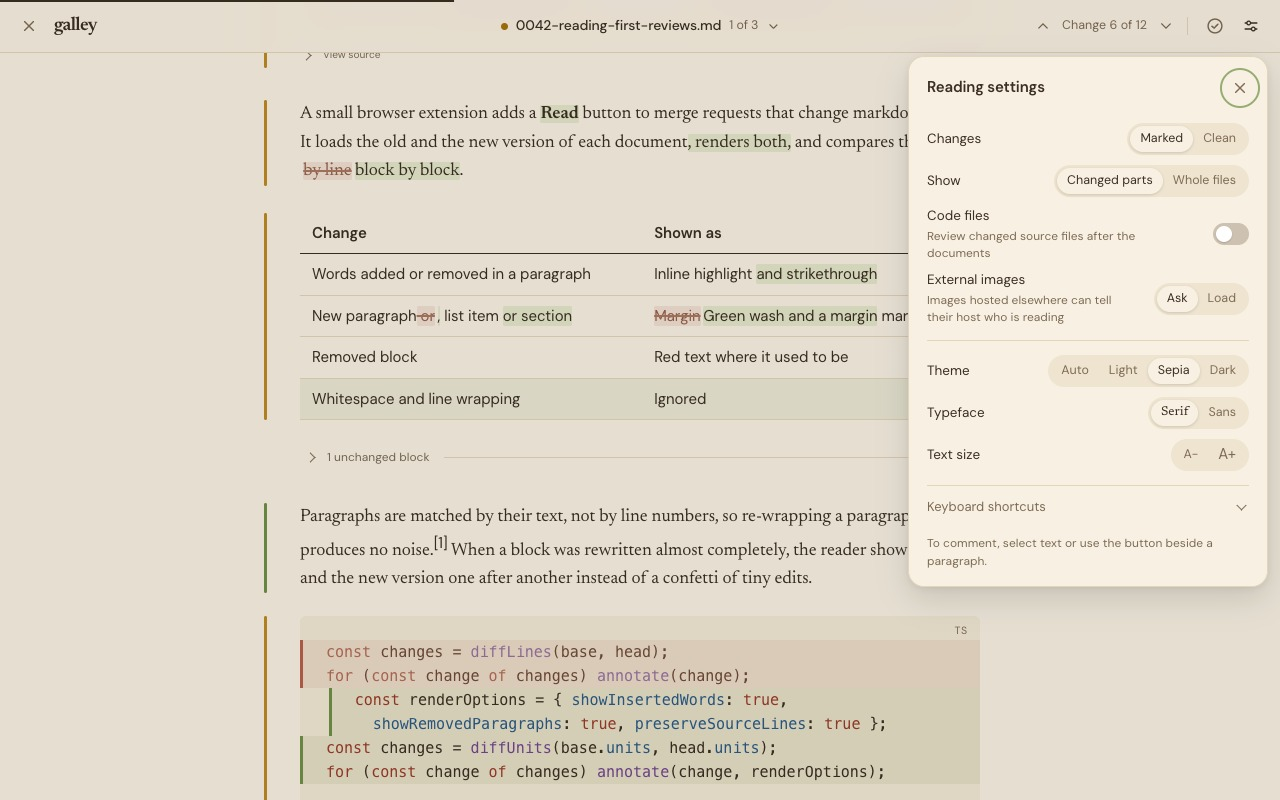
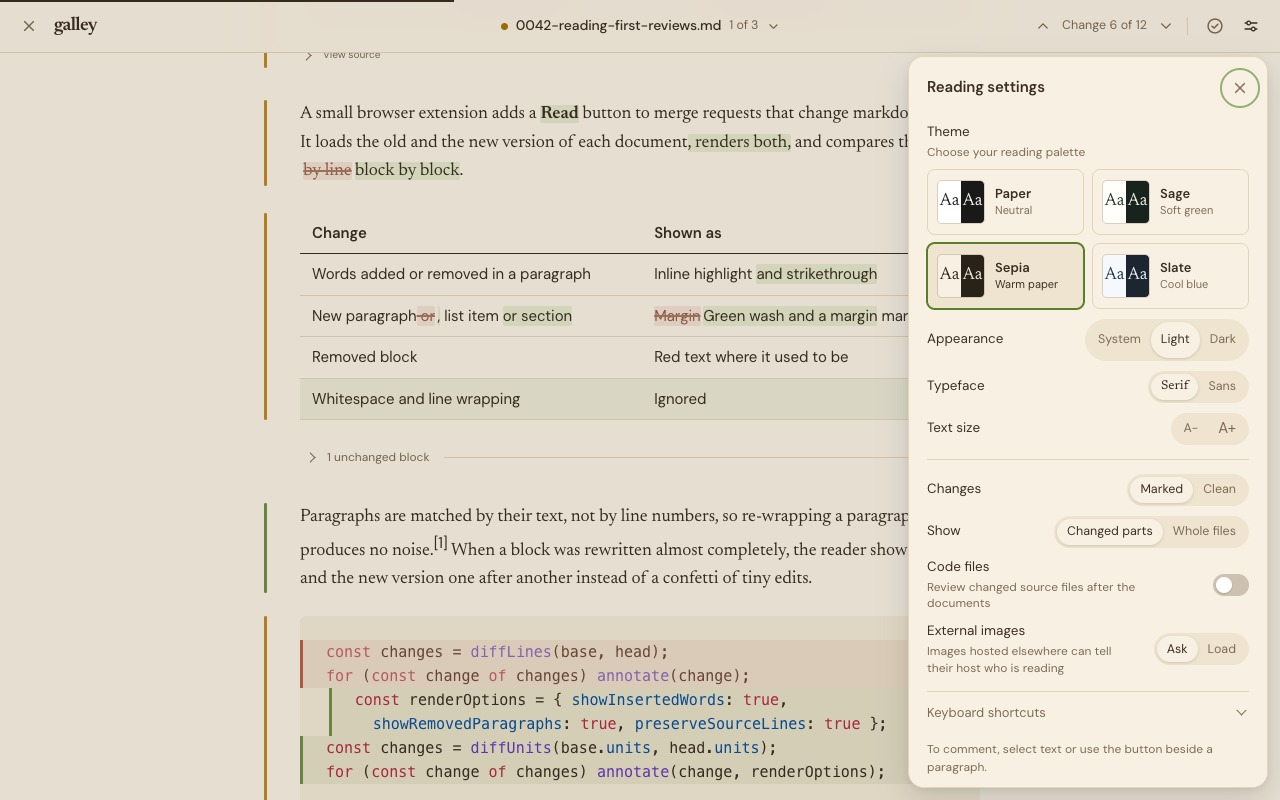
Separate reading palettes from light and dark appearance

diff --git a/src/ui/reader.ts b/src/ui/reader.ts
@@ -39,16 +39,24 @@ const TEMPLATE = `
     <div class="mr-settings-backdrop" data-act="close-settings"></div>
     <aside class="mr-settings-panel" role="dialog" aria-modal="true" aria-labelledby="mr-settings-title" tabindex="-1">
       <header class="mr-settings-heading"><h2 id="mr-settings-title">Reading settings</h2><button class="mr-btn mr-icon-btn" data-act="close-settings" aria-label="Close settings (Esc)" title="Close settings (Esc)">${icons.close}</button></header>
+      <section class="mr-settings-section" aria-label="Appearance">
+        <div class="mr-set-row mr-theme-row"><span>Theme<small>Choose your reading palette</small></span>
+          <div class="mr-theme-options" data-setting="theme" role="group" aria-label="Theme">
+            <button data-value="paper"><span class="mr-theme-preview" aria-hidden="true"><span>Aa</span><span>Aa</span></span><span class="mr-theme-name">Paper</span><span class="mr-theme-caption">Neutral</span></button>
+            <button data-value="sage"><span class="mr-theme-preview" aria-hidden="true"><span>Aa</span><span>Aa</span></span><span class="mr-theme-name">Sage</span><span class="mr-theme-caption">Soft green</span></button>
+            <button data-value="sepia"><span class="mr-theme-preview" aria-hidden="true"><span>Aa</span><span>Aa</span></span><span class="mr-theme-name">Sepia</span><span class="mr-theme-caption">Warm paper</span></button>
+            <button data-value="slate"><span class="mr-theme-preview" aria-hidden="true"><span>Aa</span><span>Aa</span></span><span class="mr-theme-name">Slate</span><span class="mr-theme-caption">Cool blue</span></button>
+          </div>
+        </div>
+        <div class="mr-set-row"><span>Appearance</span><div class="mr-seg mr-appearance" data-setting="appearance" role="group" aria-label="Appearance"><button data-value="auto">System</button><button data-value="light">Light</button><button data-value="dark">Dark</button></div></div>
+        <div class="mr-set-row"><span>Typeface</span><div class="mr-seg" data-setting="font" role="group" aria-label="Typeface"><button data-value="serif" class="mr-serif-sample">Serif</button><button data-value="sans">Sans</button></div></div>
+        <div class="mr-set-row"><span>Text size</span><div class="mr-seg"><button data-act="smaller" aria-label="Smaller text">A−</button><button data-act="larger" aria-label="Larger text" class="mr-larger-sample">A+</button></div></div>
+      </section>
       <section class="mr-settings-section" aria-label="Review">
         <div class="mr-set-row"><span>Changes</span><div class="mr-seg" role="group" aria-label="Show changes"><button data-mode="changes" aria-pressed="true">Marked</button><button data-mode="clean" aria-pressed="false">Clean</button></div></div>
         <div class="mr-set-row"><span>Show</span><div class="mr-seg" role="group" aria-label="Paragraph filter"><button data-scope="changed" aria-pressed="true">Changed parts</button><button data-scope="all" aria-pressed="false">Whole files</button></div></div>
         <div class="mr-set-row"><span id="mr-code-label">Code files<small>Review changed source files after the documents</small></span><button class="mr-switch mr-code-toggle" data-act="code-files" role="switch" aria-checked="false" aria-labelledby="mr-code-label"></button></div>
         <div class="mr-set-row"><span>External images<small>Images hosted elsewhere can tell their host who is reading</small></span><div class="mr-seg" data-setting="images" role="group" aria-label="External images"><button data-value="ask">Ask</button><button data-value="load">Load</button></div></div>
-      </section>
-      <section class="mr-settings-section" aria-label="Appearance">
-        <div class="mr-set-row"><span>Theme</span><div class="mr-seg" data-setting="theme" role="group" aria-label="Theme"><button data-value="auto">Auto</button><button data-value="light">Light</button><button data-value="sepia">Sepia</button><button data-value="dark">Dark</button></div></div>
-        <div class="mr-set-row"><span>Typeface</span><div class="mr-seg" data-setting="font" role="group" aria-label="Typeface"><button data-value="serif" class="mr-serif-sample">Serif</button><button data-value="sans">Sans</button></div></div>
-        <div class="mr-set-row"><span>Text size</span><div class="mr-seg"><button data-act="smaller" aria-label="Smaller text">A−</button><button data-act="larger" aria-label="Larger text" class="mr-larger-sample">A+</button></div></div>
       </section>
       <details class="mr-settings-section mr-keys-section"><summary>Keyboard shortcuts</summary><dl class="mr-keys">
         <dt><kbd>J</kbd> <kbd>K</kbd></dt><dd>Next / previous change</dd>
@@ -763,12 +771,12 @@ class Reader {
     r.classList.toggle('mode-changes', s.mode === 'changes');
     r.classList.toggle('mode-clean', s.mode === 'clean');
     r.classList.toggle('font-sans', s.font === 'sans');
-    r.classList.toggle('is-sepia', s.theme === 'sepia');
-    r.classList.toggle('is-dark', s.theme === 'dark' || (s.theme === 'auto' && this.dark.matches));
+    r.dataset.theme = s.theme;
+    r.classList.toggle('is-dark', s.appearance === 'dark' || (s.appearance === 'auto' && this.dark.matches));
     r.style.setProperty('--body-size', `${TEXT_SIZES[s.size] ?? 20}px`);
     for (const b of this.shadow.querySelectorAll<HTMLElement>('[data-mode]')) b.setAttribute('aria-pressed', String(b.dataset.mode === s.mode));
     for (const group of this.shadow.querySelectorAll<HTMLElement>('[data-setting]')) {
-      const value = s[group.dataset.setting as 'theme' | 'font' | 'images'];
+      const value = s[group.dataset.setting as 'theme' | 'appearance' | 'font' | 'images'];
       for (const b of group.querySelectorAll<HTMLElement>('[data-value]')) b.setAttribute('aria-pressed', String(b.dataset.value === value));
     }
     for (const view of this.views) if (view.rendered) renderDiagrams(view.rendered.diagrams, r.classList.contains('is-dark'), () => this.schedule(true));
@@ -939,7 +947,7 @@ class Reader {
     }
     const setting = target.closest<HTMLElement>('[data-setting] [data-value]');
     if (setting) {
-      const key = setting.parentElement!.dataset.setting as 'theme' | 'font' | 'images';
+      const key = setting.parentElement!.dataset.setting as 'theme' | 'appearance' | 'font' | 'images';
       this.update({ [key]: setting.dataset.value } as Partial<Settings>);
       return;
     }

diff --git a/src/ui/reader.css b/src/ui/reader.css
@@ -60,7 +60,26 @@
   --body-font: var(--sans);
 }
 
-.mr-root.is-sepia {
+.mr-root[data-theme="paper"] {
+  --bg: #ffffff;
+  --fg: #292929;
+  --muted: #686863;
+  --soft: #f3f3ef;
+  --rule: #deded8;
+  --code-bg: #f6f6f3;
+}
+
+.mr-root[data-theme="slate"] {
+  --bg: #f5f8fc;
+  --fg: #293e53;
+  --muted: #5f7181;
+  --soft: #eaf0f7;
+  --rule: #d3dfe9;
+  --code-bg: #edf2f8;
+  --accent: #466b96;
+}
+
+.mr-root[data-theme="sepia"] {
   --bg: #f8f1e3;
   --fg: #3b2f22;
   --muted: #7d6b55;
@@ -108,6 +127,35 @@
   --code-del: rgba(255, 123, 114, 0.1);
   --shadow: 0 12px 32px rgba(0, 0, 0, 0.55);
   color-scheme: dark;
+}
+
+.mr-root.is-dark[data-theme="paper"] {
+  --bg: #191919;
+  --fg: #ecece8;
+  --muted: #b0b0a9;
+  --soft: #252525;
+  --rule: #383838;
+  --code-bg: #202020;
+}
+
+.mr-root.is-dark[data-theme="sepia"] {
+  --bg: #282219;
+  --fg: #efe4d0;
+  --muted: #bdb09a;
+  --soft: #332c20;
+  --rule: #4b402e;
+  --code-bg: #30281d;
+  --accent: #c4c58b;
+}
+
+.mr-root.is-dark[data-theme="slate"] {
+  --bg: #1c2530;
+  --fg: #e3eaf2;
+  --muted: #afbccd;
+  --soft: #273445;
+  --rule: #3e5062;
+  --code-bg: #222e3c;
+  --accent: #adc5e6;
 }
 
 .mr-root ::selection {
@@ -1542,6 +1590,110 @@
 
 .mr-settings .mr-seg .mr-larger-sample {
   font-size: 15px;
+}
+
+.mr-theme-row > span {
+  flex-basis: 100%;
+}
+
+.mr-theme-options {
+  display: grid;
+  grid-template-columns: repeat(2, minmax(0, 1fr));
+  gap: 8px;
+  width: 100%;
+}
+
+.mr-theme-options button {
+  --preview-light: #fffefa;
+  --preview-ink: #243e32;
+  --preview-dark: #19231e;
+  --preview-dark-ink: #e6ebdd;
+  display: grid;
+  grid-template-columns: 48px minmax(0, 1fr);
+  align-items: center;
+  column-gap: 10px;
+  min-height: 66px;
+  padding: 9px;
+  border: 1px solid var(--rule);
+  border-radius: 8px;
+  background: var(--bg);
+  color: var(--fg);
+  font: inherit;
+  text-align: left;
+  cursor: pointer;
+}
+
+.mr-theme-options button:hover {
+  background: var(--soft);
+}
+
+.mr-theme-options button[aria-pressed="true"] {
+  border-color: var(--accent);
+  box-shadow: 0 0 0 1px var(--accent);
+  background: var(--soft);
+}
+
+.mr-theme-options [data-value="paper"] {
+  --preview-light: #ffffff;
+  --preview-ink: #292929;
+  --preview-dark: #191919;
+  --preview-dark-ink: #ecece8;
+}
+
+.mr-theme-options [data-value="sepia"] {
+  --preview-light: #f8f1e3;
+  --preview-ink: #3b2f22;
+  --preview-dark: #282219;
+  --preview-dark-ink: #efe4d0;
+}
+
+.mr-theme-options [data-value="slate"] {
+  --preview-light: #f5f8fc;
+  --preview-ink: #293e53;
+  --preview-dark: #1c2530;
+  --preview-dark-ink: #e3eaf2;
+}
+
+.mr-theme-preview {
+  display: grid;
+  grid-template-columns: repeat(2, 1fr);
+  grid-row: span 2;
+  height: 42px;
+  overflow: hidden;
+  border: 1px solid color-mix(in srgb, var(--muted) 25%, transparent);
+  border-radius: 5px;
+  font: 400 17px/42px var(--serif);
+  text-align: center;
+}
+
+.mr-theme-preview span:first-child {
+  background: var(--preview-light);
+  color: var(--preview-ink);
+}
+
+.mr-theme-preview span:last-child {
+  background: var(--preview-dark);
+  color: var(--preview-dark-ink);
+}
+
+.mr-theme-name {
+  align-self: end;
+  font-size: 13px;
+  font-weight: 600;
+}
+
+.mr-theme-caption {
+  align-self: start;
+  color: var(--muted);
+  font-size: 11px;
+}
+
+.mr-theme-options button:is(:hover, [aria-pressed="true"]) .mr-theme-caption {
+  color: var(--fg);
+}
+
+.mr-settings .mr-appearance button {
+  height: 36px;
 }
 
 .mr-switch {

diff --git a/src/ui/reader.test.ts b/src/ui/reader.test.ts
@@ -147,6 +147,25 @@ it('traps focus in settings, persists appearance, and uses Escape to close the d
   expect(document.querySelector('#galley-reader')).toBeNull();
 });
 
+it('changes palettes without changing brightness and remembers both after reopening', async () => {
+  await ui.open(review());
+  ui.click('[data-act="settings"]');
+  ui.click('[data-value="dark"]');
+  ui.click('[data-value="paper"]');
+  expect(ui.q('.mr-root').dataset.theme).toBe('paper');
+  expect(ui.q('.mr-root').classList).toContain('is-dark');
+  ui.click('[data-value="light"]');
+  expect(ui.q('.mr-root').dataset.theme).toBe('paper');
+  expect(ui.q('.mr-root').classList).not.toContain('is-dark');
+  ui.click('[data-value="slate"]');
+  ui.close();
+  await ui.open(review());
+  expect(ui.q('.mr-root').dataset.theme).toBe('slate');
+  expect(ui.q('.mr-root').classList).not.toContain('is-dark');
+  expect(ui.q('[data-value="slate"]').getAttribute('aria-pressed')).toBe('true');
+  expect(ui.q('[data-value="light"]').getAttribute('aria-pressed')).toBe('true');
+});
+
 it('shields page shortcuts while respecting text input and modifier keys', async () => {
   const pageKey = vi.fn(); window.addEventListener('keydown', pageKey);
   try {
@@ -394,11 +413,12 @@ it('reflects renamed and unchanged documents and warns about edits that Markdown
 
 it('restores automatic colour scheme behavior and responds to system theme changes', async () => {
   await ui.open(review());
-  ui.click('[data-value="sepia"]'); expect(ui.q('.mr-root').classList).toContain('is-sepia');
+  ui.click('[data-value="sepia"]'); expect(ui.q('.mr-root').dataset.theme).toBe('sepia');
   ui.click('[data-value="auto"]');
   Object.defineProperty(ui.media, 'matches', { value: true }); ui.media.dispatchEvent(new Event('change'));
   expect(ui.q('.mr-root').classList).toContain('is-dark');
   ui.click('[data-value="light"]'); ui.media.dispatchEvent(new Event('change'));
+  expect(ui.q('.mr-root').dataset.theme).toBe('sepia');
   expect(ui.q('.mr-root').classList).not.toContain('is-dark');
 });
 

diff --git a/src/ui/settings.test.ts b/src/ui/settings.test.ts
@@ -1,16 +1,38 @@
 import { afterEach, expect, it, vi } from 'vitest';
-import { DEFAULT_SETTINGS, loadSettings, saveSettings } from './settings.ts';
+import { APPEARANCES, DEFAULT_SETTINGS, THEMES, loadSettings, saveSettings } from './settings.ts';
 
 afterEach(() => localStorage.clear());
 
 it('merges saved preferences with new defaults and isolates the returned settings', async () => {
   localStorage.setItem('galley:settings', JSON.stringify({ theme: 'sepia' }));
   const settings = await loadSettings();
-  expect(settings).toEqual({ ...DEFAULT_SETTINGS, theme: 'sepia' });
+  expect(settings).toEqual({ ...DEFAULT_SETTINGS, theme: 'sepia', appearance: 'light' });
   settings.size = 4;
   expect(DEFAULT_SETTINGS.size).toBe(2);
   await saveSettings(settings);
   expect((await loadSettings()).size).toBe(4);
+});
+
+it.each([
+  ['auto', 'sage', 'auto'],
+  ['light', 'sage', 'light'],
+  ['dark', 'sage', 'dark'],
+  ['sepia', 'sepia', 'light'],
+])('preserves the former %s theme when splitting palette and appearance', async (old, theme, appearance) => {
+  localStorage.setItem('galley:settings', JSON.stringify({ theme: old, font: 'sans', size: 3 }));
+  expect(await loadSettings()).toEqual({ ...DEFAULT_SETTINGS, theme, appearance, font: 'sans', size: 3 });
+});
+
+it.each(THEMES.flatMap((theme) => APPEARANCES.map((appearance) => ({ theme, appearance }))))(
+  'remembers $theme and $appearance independently', async ({ theme, appearance }) => {
+    await saveSettings({ ...DEFAULT_SETTINGS, theme, appearance });
+    expect(await loadSettings()).toEqual({ ...DEFAULT_SETTINGS, theme, appearance });
+  },
+);
+
+it('falls back to valid palette and appearance defaults for unknown saved choices', async () => {
+  localStorage.setItem('galley:settings', JSON.stringify({ theme: 'unknown', appearance: 'unknown' }));
+  expect(await loadSettings()).toEqual(DEFAULT_SETTINGS);
 });
 
 it('uses extension-local storage instead of the host page storage', async () => {

diff --git a/src/ui/settings.ts b/src/ui/settings.ts
@@ -1,7 +1,11 @@
-export type Theme = 'auto' | 'light' | 'sepia' | 'dark';
+export const THEMES = ['paper', 'sage', 'sepia', 'slate'] as const;
+export const APPEARANCES = ['auto', 'light', 'dark'] as const;
+export type Theme = typeof THEMES[number];
+export type Appearance = typeof APPEARANCES[number];
 
 export interface Settings {
   theme: Theme;
+  appearance: Appearance;
   font: 'serif' | 'sans';
   /** Index into TEXT_SIZES. */
   size: number;
@@ -14,7 +18,7 @@ export interface Settings {
 
 export const TEXT_SIZES = [17, 18, 20, 22, 24];
 
-export const DEFAULT_SETTINGS: Settings = { theme: 'auto', font: 'serif', size: 2, mode: 'changes', scope: 'changed', codeFiles: false, images: 'ask' };
+export const DEFAULT_SETTINGS: Settings = { theme: 'sage', appearance: 'auto', font: 'serif', size: 2, mode: 'changes', scope: 'changed', codeFiles: false, images: 'ask' };
 
 const SETTINGS_KEY = 'galley:settings';
 
@@ -49,7 +53,12 @@ async function write(key: string, value: unknown): Promise<void> {
 }
 
 export async function loadSettings(): Promise<Settings> {
-  return { ...DEFAULT_SETTINGS, ...(await read<Partial<Settings>>(SETTINGS_KEY)) };
+  // Earlier versions used one setting for both colour and brightness. Preserve that choice.
+  const saved = await read<Partial<Omit<Settings, 'theme'>> & { theme?: Theme | Appearance }>(SETTINGS_KEY) ?? {};
+  const theme = THEMES.find((theme) => theme === saved.theme) ?? DEFAULT_SETTINGS.theme;
+  const legacyAppearance = saved.theme === 'dark' ? 'dark' : saved.theme === 'light' || saved.theme === 'sepia' ? 'light' : 'auto';
+  const appearance = APPEARANCES.find((appearance) => appearance === saved.appearance) ?? legacyAppearance;
+  return { ...DEFAULT_SETTINGS, ...saved, theme, appearance };
 }
 
 export function saveSettings(settings: Settings): Promise<void> {

diff --git a/README.md b/README.md
@@ -36,7 +36,7 @@ Reading fetches files and threads from your code host; posting sends your commen
 
 ![The real Galley reader: document changes and the team's review conversation in context.](store/assets/screenshot-1-changes.jpg)
 
-Newsreader brings the website’s reading typography into the extension, with DM Sans for the controls and soft sage and rose highlights for changes. Both fonts ship locally with Galley. Light, sepia and dark themes, serif or sans text, adjustable type size and a clean reading mode let you make the reader comfortable for you.
+Newsreader brings the website’s reading typography into the extension, with DM Sans for the controls and soft sage and rose highlights for changes. Both fonts ship locally with Galley. Paper, Sage, Sepia and Slate palettes each offer light, dark or system appearance. Serif or sans text, adjustable type size and a clean reading mode let you make the reader comfortable for you.
 
 ## Try it
 
@@ -79,7 +79,7 @@ Open a pull or merge request and press **Read** in the bottom-right corner. The 
 | <kbd>⌘</kbd>/<kbd>Ctrl</kbd> + <kbd>Enter</kbd> | Post the comment in the focused composer |
 | <kbd>Esc</kbd> | Close the innermost layer: menu, comment chip, empty composer, then the reader |
 
-The top bar stays quiet: the current document (a status dot, its name and position), change navigation, a **Viewed** toggle and **Reading settings**. The document menu lists every changed file with its folder, status and viewed progress, under the pull request title. Reading settings opens as a small sheet (a bottom sheet on phones) with Changes/Clean, the paragraph filter, code files, external images, theme (auto, light, sepia, dark), serif or sans text and text size. Long documents get a contents rail on the right, with a dot next to every section that changed. A draft is never discarded by Esc; only **Cancel** discards it.
+The top bar stays quiet: the current document (a status dot, its name and position), change navigation, a **Viewed** toggle and **Reading settings**. The document menu lists every changed file with its folder, status and viewed progress, under the pull request title. Reading settings opens as a small sheet (a bottom sheet on phones) with Changes/Clean, the paragraph filter, code files, external images, a reading palette (Paper, Sage, Sepia, Slate), appearance (System, Light, Dark), serif or sans text and text size. Long documents get a contents rail on the right, with a dot next to every section that changed. A draft is never discarded by Esc; only **Cancel** discards it.
 
 ### GitLab (gitlab.com and self-managed)
 

diff --git a/store/LISTING.md b/store/LISTING.md
@@ -38,7 +38,7 @@ WHAT YOU GET
 • Re-wrapped paragraphs are not reported as changes.
 • Clean mode: hide the markup and read the new version as it will be published, with quiet markers in the margin.
 • Keyboard navigation: J and K for the next and previous change, [ and ] for the next and previous document, R to comment, V to mark a file viewed, C to switch modes, Esc to go back.
-• Light, sepia and dark themes, serif or sans text, adjustable text size.
+• Paper, Sage, Sepia and Slate palettes, each with light, dark or system appearance; serif or sans text and adjustable text size.
 
 WORKS WHERE YOU REVIEW
 • GitLab.com and self-managed GitLab: uses your signed-in session, nothing to set up. Self-managed instances are enabled from the toolbar popup, one domain at a time.
